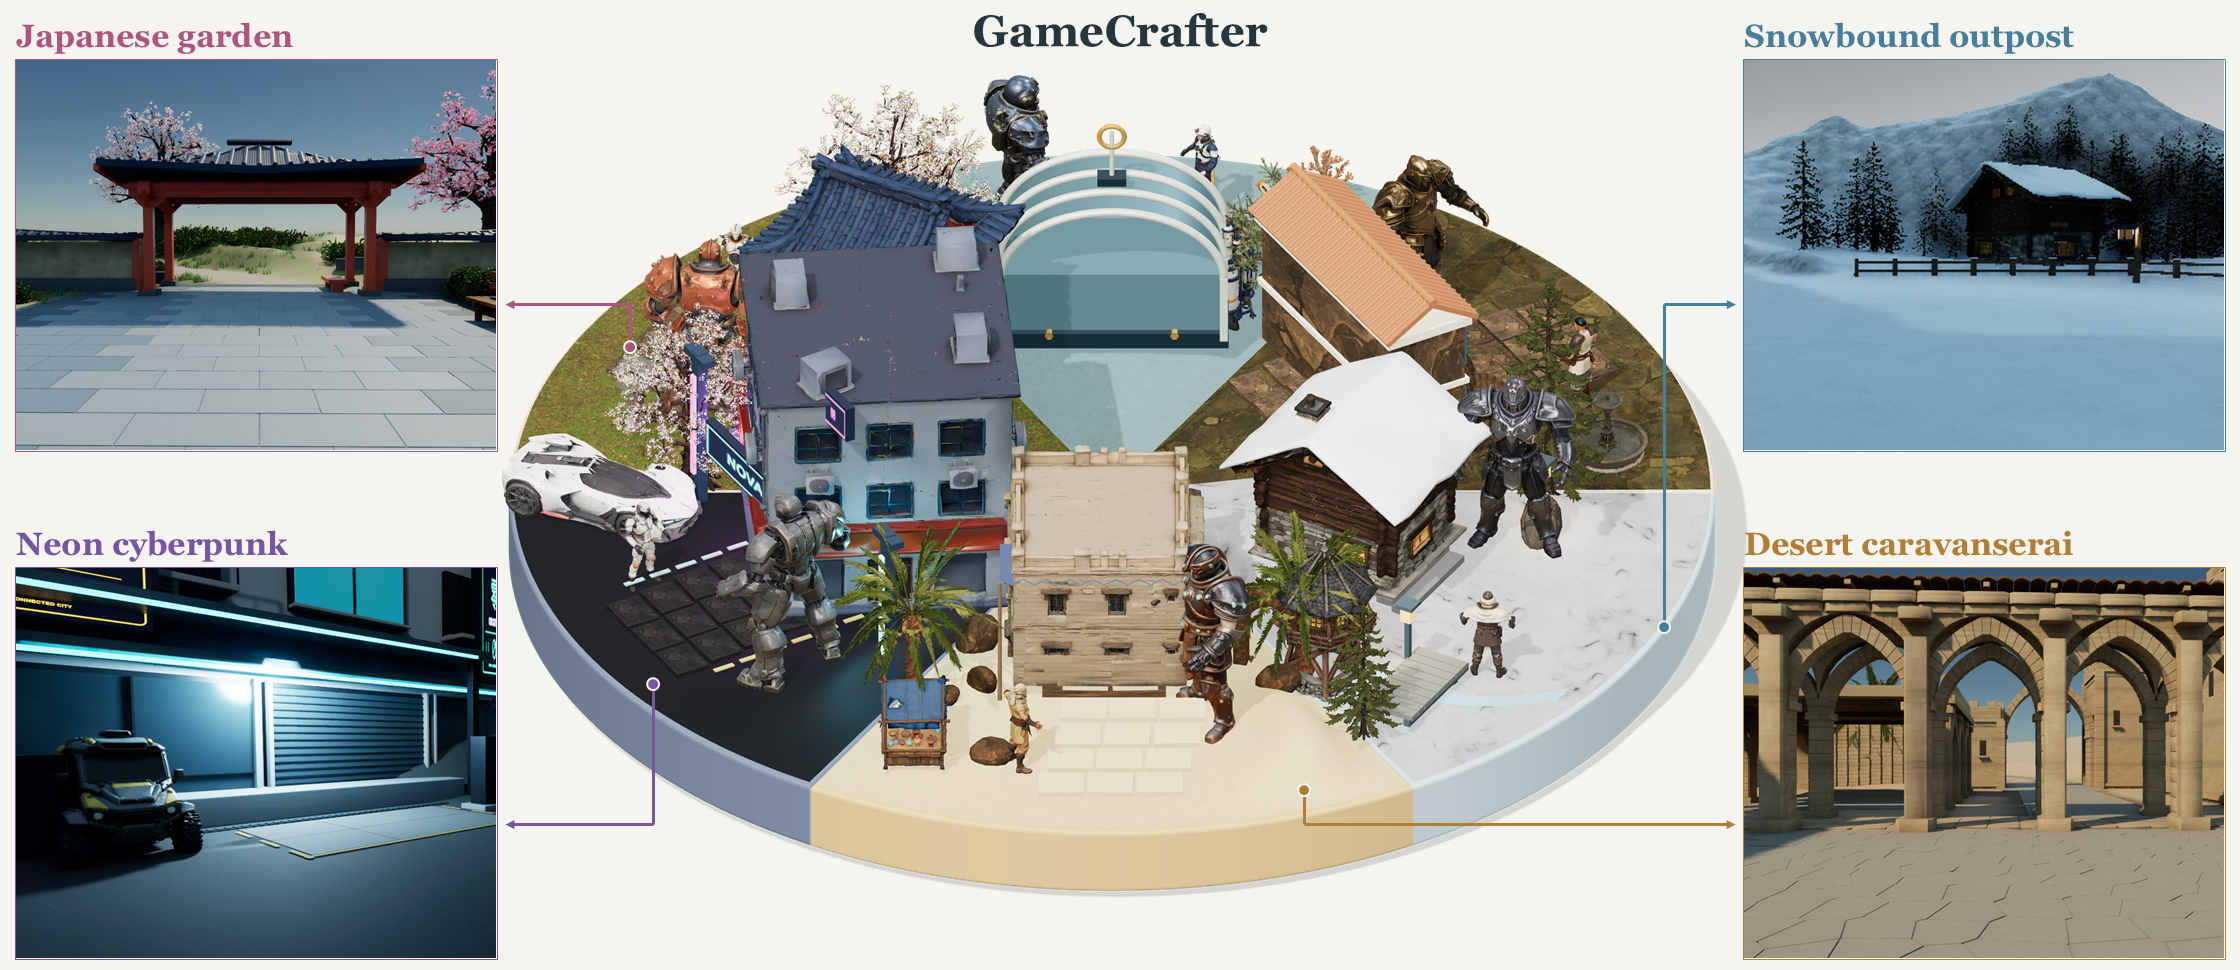
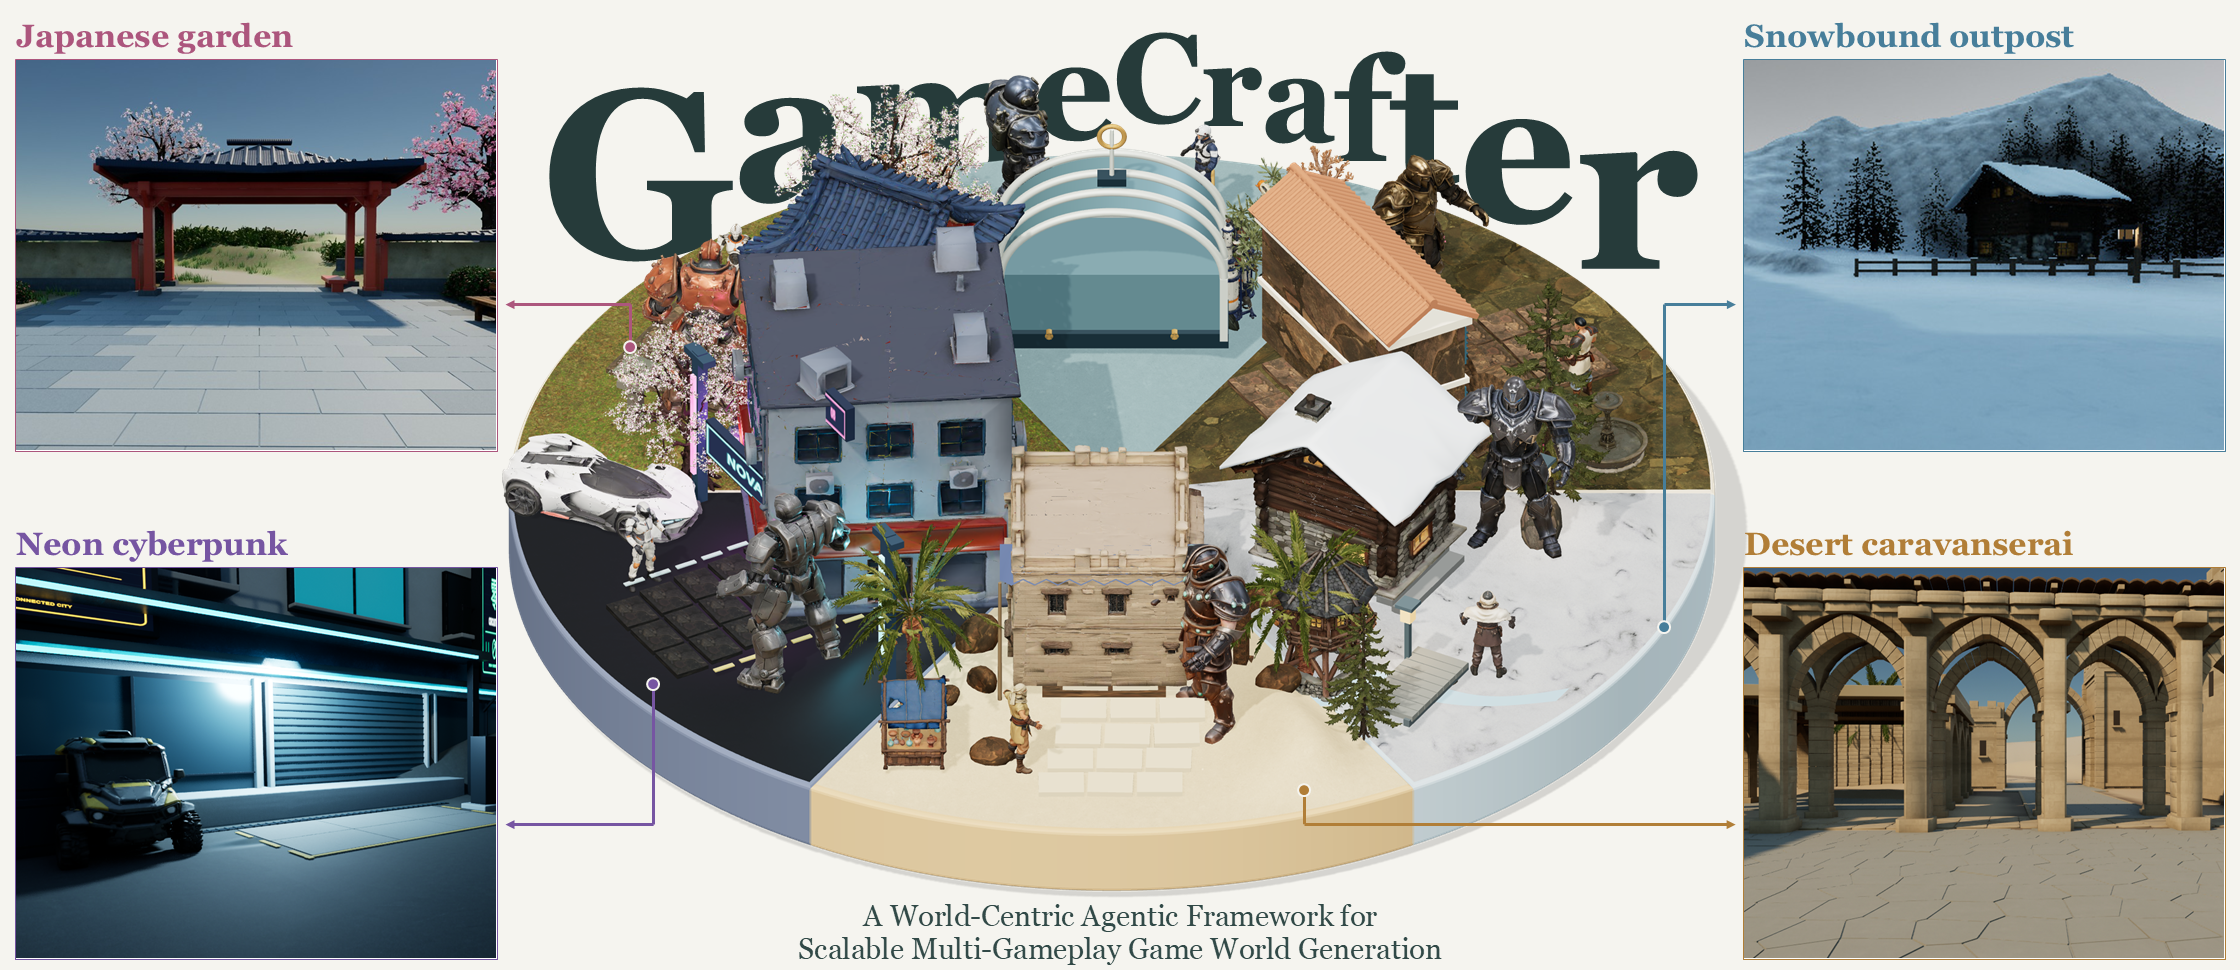
Refine teaser typography and world-centric subtitle

Changed region(s): [[0.2188, 0.0, 0.7812, 0.2784], [0.3438, 0.9278, 0.6562, 0.9897]]

diff --git a/index.html b/index.html
@@ -3,7 +3,7 @@
 <head>
   <meta charset="utf-8"><meta name="viewport" content="width=device-width,initial-scale=1">
   <title>GameCrafter · Agentic Game World Generation</title>
-  <meta name="description" content="GameCrafter: An Agentic Framework for Scalable Multi-Gameplay Game World Generation. Explore diverse worlds, two gameplay modes, three perspectives, and five aligned outputs.">
+  <meta name="description" content="GameCrafter: A World-Centric Agentic Framework for Scalable Multi-Gameplay Game World Generation. Explore diverse worlds, two gameplay modes, three perspectives, and five aligned outputs.">
   <meta name="theme-color" content="#f6f4ef">
   <link rel="icon" href="favicon.svg" type="image/svg+xml">
   <link rel="stylesheet" href="src/style.css">
@@ -13,7 +13,7 @@
 <header class="site-nav"><a href="#" class="wordmark"><span class="mark">G</span> GameCrafter</a><nav aria-label="Main navigation"><a href="#method">Method</a><a href="#results">Results</a><a href="assets/worldcrafter-framework-v1.0.zip" download class="source-link">Code <span>↗</span></a></nav></header>
 <main>
 <section class="hero" aria-labelledby="title">
-  <div class="hero-heading"><div class="eyebrow">From imagination to interaction</div><h1 id="title">Game<span>Crafter</span></h1><p class="paper-title">An Agentic Framework for Scalable<br class="desktop-break"> Multi-Gameplay Game World Generation</p></div>
+  <div class="hero-heading"><div class="eyebrow">From imagination to interaction</div><h1 id="title">Game<span>Crafter</span></h1><p class="paper-title">A World-Centric Agentic Framework for Scalable<br class="desktop-break"> Multi-Gameplay Game World Generation</p></div>
   <div class="world-stage" id="world-stage" role="region" aria-label="Interactive 3D showcase of six miniature game worlds">
     <canvas id="world-canvas" aria-label="Rotating six-part diorama. Drag to rotate, or select a world below."></canvas>
     <div id="loading" class="loading"><span class="loading-ring"></span><span id="loading-label">Building a world of worlds</span></div>
@@ -29,10 +29,10 @@
 
 <section class="intro section" id="overview"><div class="section-label">The idea</div><div class="intro-grid"><h2>A world you can<br><em>actually play.</em></h2><div><p>GameCrafter turns a prompt or reference images into an editable game world. A coordinated team of design, production, and review agents brings specialized creative software into a single workflow.</p><p>Agents plan the map, allocate assets, prepare characters, and iterate on visual and gameplay evidence. The result supports exploration and Boss combat, three camera perspectives, and five aligned visual outputs.</p></div></div>
 <figure class="teaser-figure" id="teaser-figure">
- <a class="teaser-figure-open" href="assets/figures/worldcrafter-teaser.png" target="_blank" rel="noopener" aria-label="Open the full-resolution GameCrafter world diversity figure">
-  <img src="assets/figures/worldcrafter-teaser.webp" width="2240" height="970" loading="lazy" decoding="async" alt="A central 3D overview connects to four actual Unreal Engine environments: a Japanese cherry-blossom garden, a neon cyberpunk street, a snowy outpost, and a desert caravanserai.">
+ <a class="teaser-figure-open" href="assets/figures/worldcrafter-teaser.png?v=6" target="_blank" rel="noopener" aria-label="Open the full-resolution GameCrafter world diversity figure">
+  <img src="assets/figures/worldcrafter-teaser.webp?v=6" width="2240" height="970" loading="lazy" decoding="async" alt="A central 3D overview connects to four actual Unreal Engine environments: a Japanese cherry-blossom garden, a neon cyberpunk street, a snowy outpost, and a desert caravanserai.">
  </a>
- <figcaption><p><strong>Distinct worlds, a shared creation process.</strong> Representative 3D miniatures connect to actual Unreal Engine captures. Explore a case below.</p><a href="assets/figures/worldcrafter-teaser.png" target="_blank" rel="noopener">Full-resolution figure <span aria-hidden="true">↗</span></a></figcaption>
+ <figcaption><p><strong>Distinct worlds, a shared creation process.</strong> Representative 3D miniatures connect to actual Unreal Engine captures. Explore a case below.</p><a href="assets/figures/worldcrafter-teaser.png?v=6" target="_blank" rel="noopener">Full-resolution figure <span aria-hidden="true">↗</span></a></figcaption>
  <nav class="teaser-case-links" aria-label="Explore the featured worlds"><a href="?scene=sakura_courtyard#results">Japanese garden</a><a href="?scene=neon_switchyard#results">Neon cyberpunk</a><a href="?scene=snowbound_outpost#results">Snowbound outpost</a><a href="?scene=desert_caravanserai#results">Desert caravanserai</a></nav>
 </figure>
 <div class="capability-line"><div><strong>2</strong><span>Gameplay modes</span></div><div><strong>3</strong><span>Camera perspectives</span></div><div><strong>5</strong><span>Aligned outputs</span></div><div class="last-capability"><span>Text or references</span><span class="flow-symbol">→</span><span>Playable worlds</span></div></div></section>
@@ -81,7 +81,7 @@
 
 <section class="closing section"><div class="section-label">Built to evolve</div><div class="closing-grid"><h2>A repeatable process.<br><em>New worlds every time.</em></h2><div><p>The workflow stays consistent while the content changes. New prompts create new assets; reference images can guide a scene or replace a character. A local repair can resume from the affected stage.</p><a class="download-link" href="assets/worldcrafter-framework-v1.0.zip" download>Explore framework source v1.0 <span>↗</span></a></div></div></section>
 </main>
-<footer><span class="wordmark">GameCrafter</span><p>An Agentic Framework for Scalable Multi-Gameplay Game World Generation</p><a href="#title">Back to top ↑</a></footer>
+<footer><span class="wordmark">GameCrafter</span><p>A World-Centric Agentic Framework for Scalable Multi-Gameplay Game World Generation</p><a href="#title">Back to top ↑</a></footer>
 <dialog id="image-dialog"><button id="close-dialog" aria-label="Close enlarged image">×</button><img id="dialog-image" alt=""><p id="dialog-caption"></p></dialog>
 <script type="module" src="src/app.js"></script>
 

diff --git a/README.md b/README.md
@@ -1,6 +1,6 @@
 # GameCrafter project page
 
-**GameCrafter: An Agentic Framework for Scalable Multi-Gameplay Game World Generation**
+**GameCrafter: A World-Centric Agentic Framework for Scalable Multi-Gameplay Game World Generation**
 
 [中文说明](README.zh-CN.md)
 

diff --git a/README.zh-CN.md b/README.zh-CN.md
@@ -1,6 +1,6 @@
 # GameCrafter 项目主页
 
-**GameCrafter: An Agentic Framework for Scalable Multi-Gameplay Game World Generation**
+**GameCrafter: A World-Centric Agentic Framework for Scalable Multi-Gameplay Game World Generation**
 
 [English](README.md)
 
